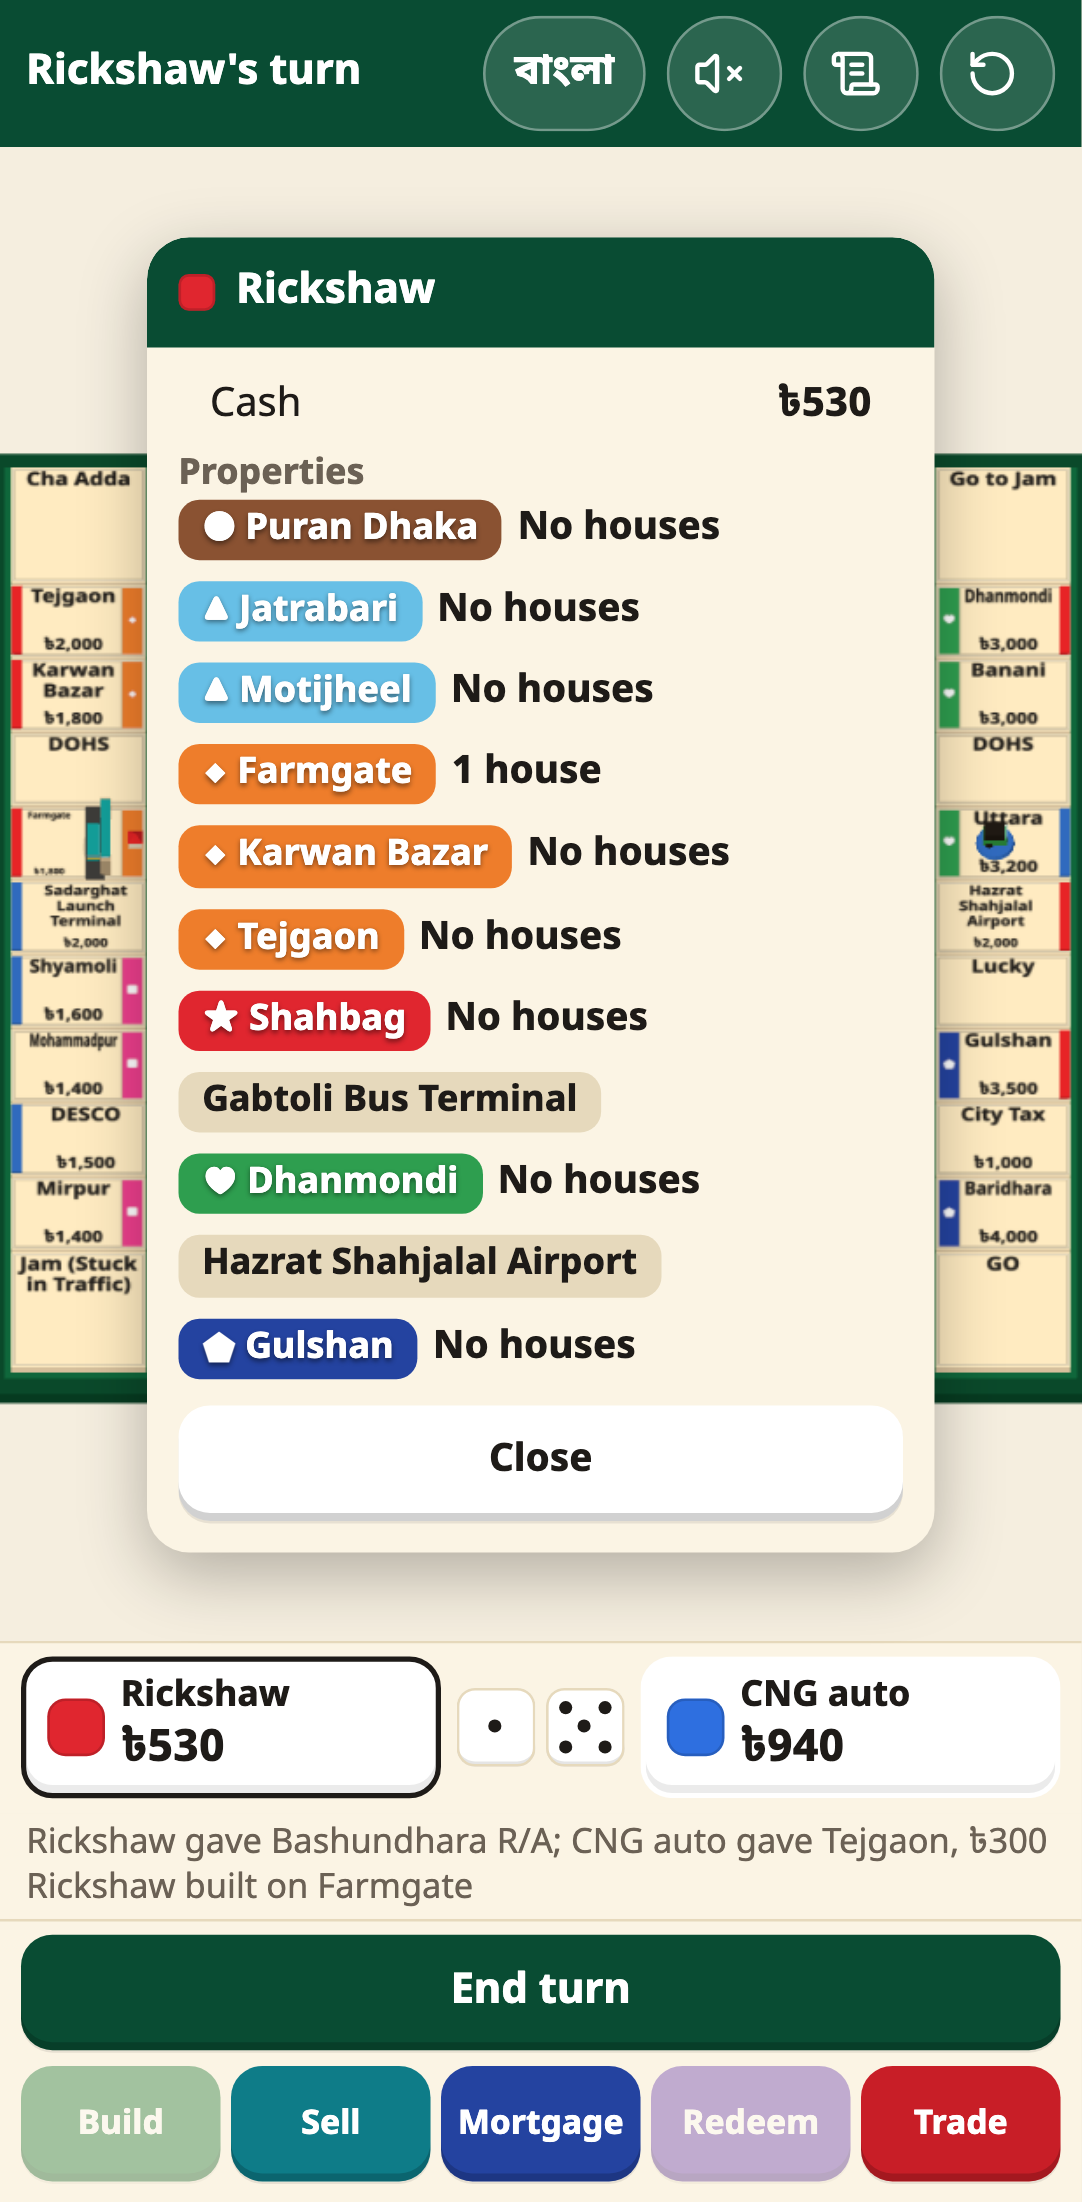
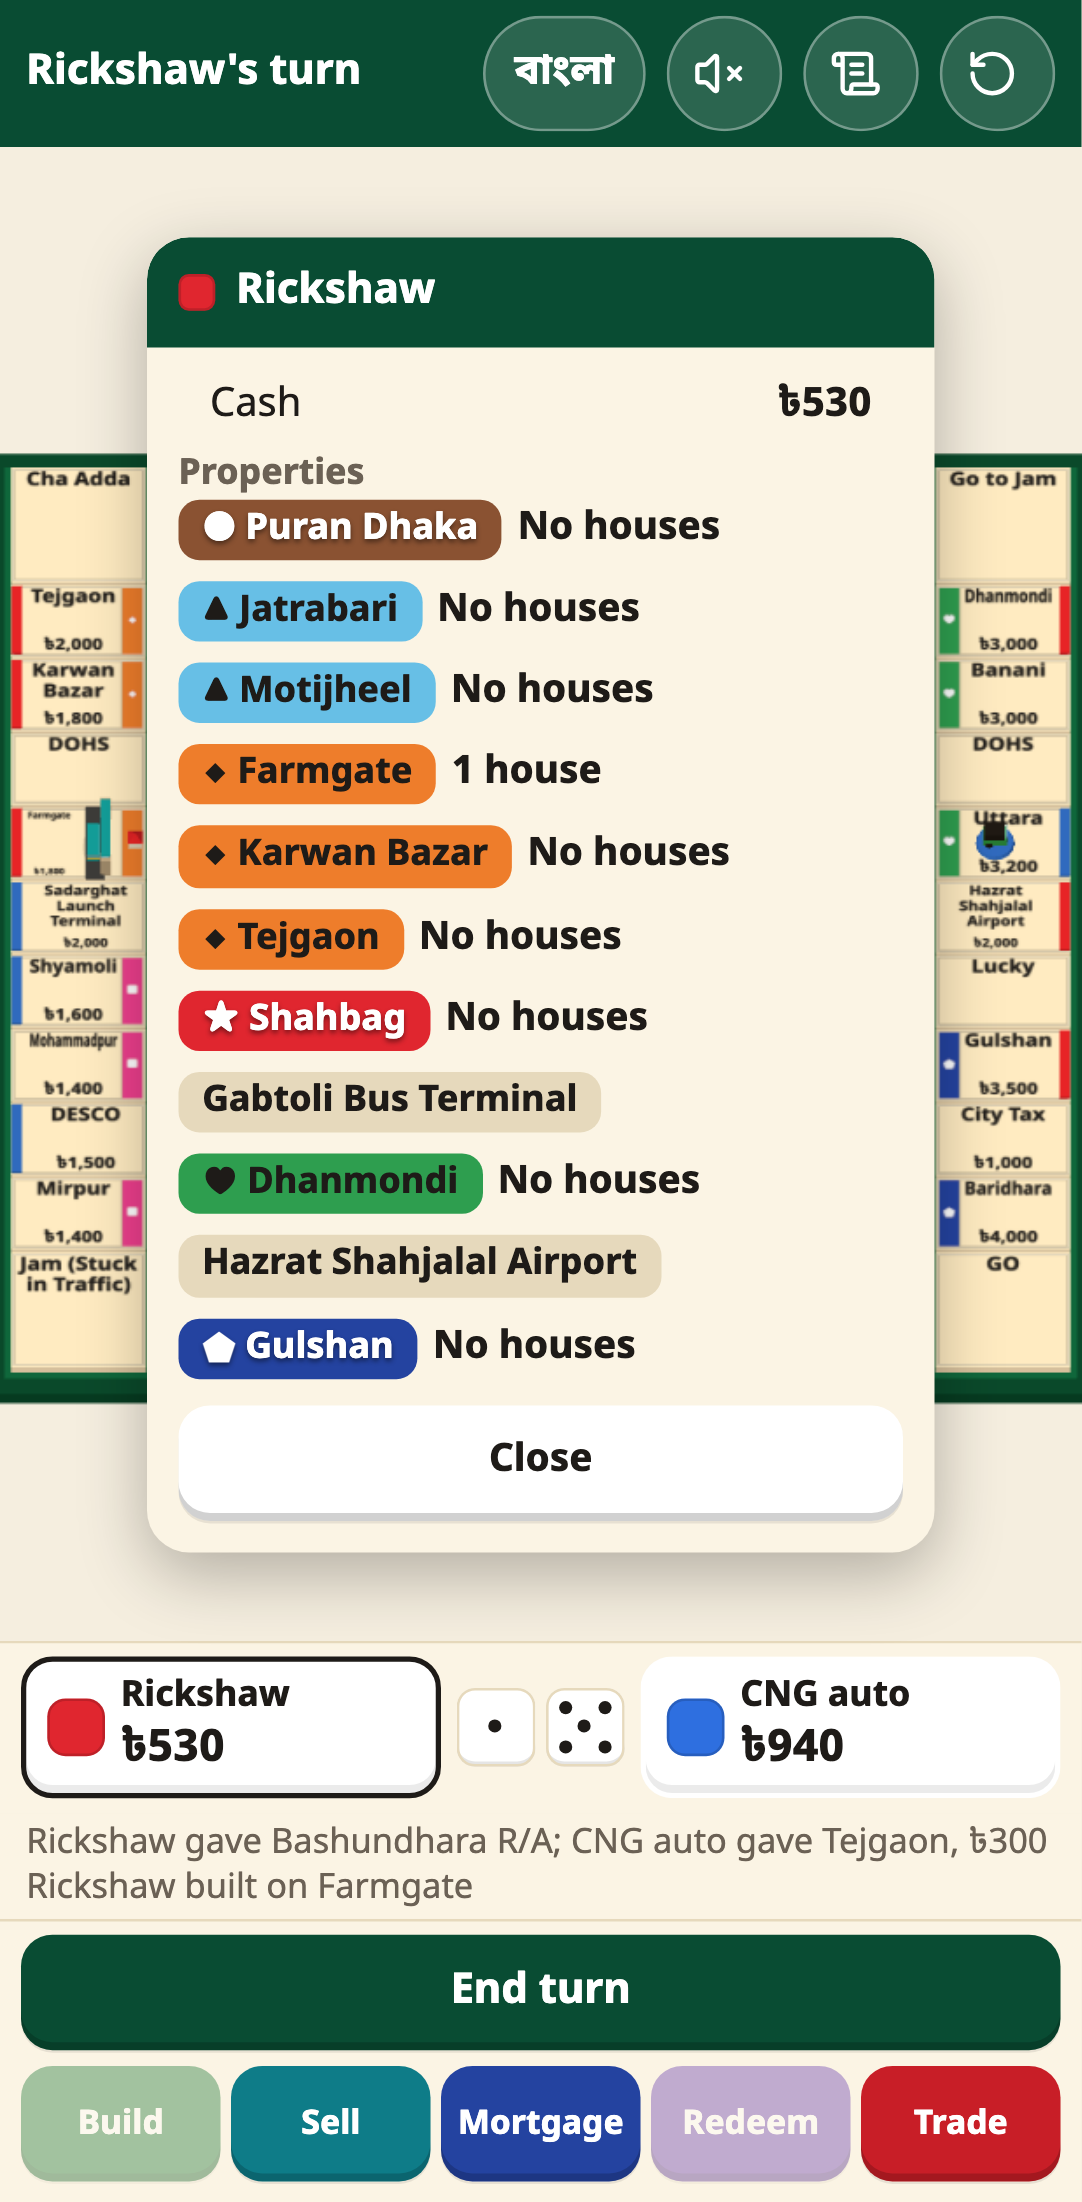
S7 accessibility: contrast and tap target audit on every screen in both languages, readable set-color text, bankrupt card and slider fixes (D-96)

Changed region(s): [[0.183, 0.247, 0.4575, 0.4323], [0.183, 0.525, 0.427, 0.5559]]

diff --git a/tests/e2e/a11y.spec.ts b/tests/e2e/a11y.spec.ts
@@ -1,0 +1,121 @@
+import { expect, test, type Page } from '@playwright/test';
+import { runSteps } from './helpers';
+
+// Plan 2.2 and phase 5 accessibility: contrast on every text and background pair, tap targets
+// of at least 44 by 44 points, on the narrowest phone in scope (375 points wide), both languages.
+test.use({ viewport: { width: 375, height: 812 }, deviceScaleFactor: 2, isMobile: true, hasTouch: true, actionTimeout: 10_000 });
+
+interface Problem { screen: string; kind: 'contrast' | 'tap'; text: string; detail: string }
+
+// Runs in the page: every visible text against the colors actually behind it, and every control's size.
+async function audit(page: Page, screen: string): Promise<Problem[]> {
+  return page.evaluate((screenName) => {
+    type C = { r: number; g: number; b: number; a: number };
+    const parse = (s: string): C => {
+      const m = /rgba?\(([^)]+)\)/.exec(s);
+      if (!m) return { r: 0, g: 0, b: 0, a: 0 };
+      const p = m[1]!.split(/[\s,/]+/).filter(Boolean).map(Number);
+      return { r: p[0]!, g: p[1]!, b: p[2]!, a: p[3] ?? 1 };
+    };
+    const over = (top: C, under: C): C => ({ r: top.r * top.a + under.r * (1 - top.a), g: top.g * top.a + under.g * (1 - top.a), b: top.b * top.a + under.b * (1 - top.a), a: 1 });
+    const lum = (c: C) => {
+      const f = (v: number) => { const x = v / 255; return x <= 0.03928 ? x / 12.92 : ((x + 0.055) / 1.055) ** 2.4; };
+      return 0.2126 * f(c.r) + 0.7152 * f(c.g) + 0.0722 * f(c.b);
+    };
+    const ratio = (a: C, b: C) => { const [x, y] = [lum(a), lum(b)].sort((p, q) => q - p); return (x! + 0.05) / (y! + 0.05); };
+    const hex = (c: C) => '#' + [c.r, c.g, c.b].map((v) => Math.round(v).toString(16).padStart(2, '0')).join('');
+    const shown = (el: Element) => { const r = el.getBoundingClientRect(); return r.width > 0 && r.height > 0 && !el.closest('[hidden]') && getComputedStyle(el).visibility !== 'hidden'; };
+    // Background layers from the element up to the first opaque one; gradients use their first color.
+    const background = (el: Element): C => {
+      const layers: C[] = [];
+      for (let e: Element | null = el; e; e = e.parentElement) {
+        const cs = getComputedStyle(e);
+        let c = parse(cs.backgroundColor);
+        if (c.a === 0 && cs.backgroundImage.includes('gradient')) c = parse(cs.backgroundImage);
+        if (c.a > 0) { layers.push(c); if (c.a >= 1) break; }
+      }
+      let base: C = { r: 255, g: 255, b: 255, a: 1 };
+      for (const l of layers.reverse()) base = over(l, base);
+      return base;
+    };
+    const opacity = (el: Element) => { let o = 1; for (let e: Element | null = el; e; e = e.parentElement) o *= Number(getComputedStyle(e).opacity); return o; };
+    const out: Array<{ screen: string; kind: 'contrast' | 'tap'; text: string; detail: string }> = [];
+    const walker = document.createTreeWalker(document.body, NodeFilter.SHOW_TEXT);
+    const seen = new Set<Element>();
+    for (let n = walker.nextNode(); n; n = walker.nextNode()) {
+      const el = n.parentElement;
+      const text = n.textContent?.trim();
+      if (!el || !text || seen.has(el) || !shown(el)) continue;
+      seen.add(el);
+      // WCAG 1.4.3 exempts inactive controls.
+      if (el.closest('button:disabled, [aria-disabled="true"], option')) continue;
+      const cs = getComputedStyle(el);
+      const bg = background(el);
+      const fgRaw = parse(cs.color);
+      const fg = over({ ...fgRaw, a: fgRaw.a * opacity(el) }, bg);
+      const size = parseFloat(cs.fontSize);
+      const large = size >= 24 || (size >= 18.66 && Number(cs.fontWeight) >= 700);
+      const need = large ? 3 : 4.5;
+      const got = ratio(fg, bg);
+      if (got < need) out.push({ screen: screenName, kind: 'contrast', text: text.slice(0, 40), detail: `${got.toFixed(2)} < ${need} (${hex(fg)} on ${hex(bg)}, ${size}px, .${el.className || el.tagName})` });
+    }
+    for (const el of Array.from(document.querySelectorAll('button, select, input, a[href], [role="button"]'))) {
+      if (!shown(el)) continue;
+      // A checkbox is tapped through its whole label row.
+      const target = el.matches('input[type="checkbox"], input[type="radio"]') ? el.closest('label') ?? el : el;
+      const r = target.getBoundingClientRect();
+      if (r.width < 43.5 || r.height < 43.5) out.push({ screen: screenName, kind: 'tap', text: (target.textContent ?? '').trim().slice(0, 40) || target.getAttribute('aria-label') || target.tagName, detail: `${r.width.toFixed(0)} by ${r.height.toFixed(0)} (.${(target as HTMLElement).className || target.tagName})` });
+    }
+    return out;
+  }, screen);
+}
+
+const shown = (page: Page, id: string) => page.getByTestId(id).isVisible().catch(() => false);
+
+async function stepUntil(page: Page, done: () => Promise<boolean>, max = 400): Promise<void> {
+  for (let i = 0; i < max && !(await done()); i++) await runSteps(page, 1);
+}
+
+for (const lang of ['en', 'bn'] as const) {
+  test(`plan 2.2 accessibility (${lang}): contrast and 44 point tap targets on every screen`, async ({ page }) => {
+    test.setTimeout(240_000);
+    const problems: Problem[] = [];
+    await page.goto(`/?test=1&lang=${lang}`);
+    problems.push(...await audit(page, 'setup'));
+    await page.getByTestId('timer-on').click();
+    await page.getByTestId('start').click();
+    problems.push(...await audit(page, 'handoff'));
+    await stepUntil(page, () => shown(page, 'deed'));
+    problems.push(...await audit(page, 'deed and timer'));
+    await page.locator('[data-testid="deed"] [data-action*="DECLINE"]').click();
+    await expect(page.getByTestId('auction')).toBeVisible();
+    problems.push(...await audit(page, 'auction'));
+    await stepUntil(page, () => shown(page, 'card'));
+    await expect(page.getByTestId('card')).toBeVisible();
+    problems.push(...await audit(page, 'card'));
+    await stepUntil(page, async () => (await page.locator('.main-row [data-action*="\\"ROLL\\""]').isVisible()) && (await page.getByTestId('act-trade').isEnabled()) && (await page.getByTestId('act-mortgage').isEnabled()), 3000);
+    await page.getByTestId('act-trade').click();
+    await page.locator('[data-testid^="trade-to-"]').first().click();
+    problems.push(...await audit(page, 'trade'));
+    await page.getByTestId('trade-cancel').click();
+    await page.getByTestId('act-mortgage').click();
+    problems.push(...await audit(page, 'manage'));
+    await page.getByTestId('manage-close').click();
+    await page.locator('.player').first().click();
+    problems.push(...await audit(page, 'player details'));
+    await page.getByTestId('info-close').click();
+    await page.getByTestId('open-log').click();
+    problems.push(...await audit(page, 'log'));
+    await page.getByTestId('info-close').click();
+    await page.reload();
+    problems.push(...await audit(page, 'setup with saved game'));
+    await page.getByTestId('continue').click();
+    problems.push(...await audit(page, 'resume'));
+    let r = await runSteps(page, 500);
+    for (let i = 0; i < 60 && r.status === 'more'; i++) r = await runSteps(page, 500);
+    expect(r.status).toBe('over');
+    problems.push(...await audit(page, 'game over'));
+    const lines = problems.map((p) => `${p.screen} | ${p.kind} | ${p.text} | ${p.detail}`);
+    expect([...new Set(lines)]).toEqual([]);
+  });
+}

diff --git a/src/ui/app.ts b/src/ui/app.ts
@@ -13,6 +13,7 @@ import { Sfx } from '../audio/sfx';
 import { cardArt } from './cardArt';
 import { icon } from './icons';
 import { h } from './dom';
+import { textOn } from './contrast';
 import { Session, type SeatKind } from './session';
 import { clearSave, deviceStorage, loadSave, writeSave, type GameSettings, type SaveGame } from './save';
 
@@ -540,7 +541,7 @@ export class App {
       rules.config.utility.diceMultiplierByUtilitiesOwned.forEach((m, i) => rows.push([t('deed.owning', { n: num(i + 1) }), t('deed.diceTimes', { n: num(m) })]));
     }
     return h('div', { class: 'deed' },
-      h('div', { class: 'deed-head', style: tile.group ? `background:${this.o.sceneConfig.colors.groups[tile.group]}` : '' },
+      h('div', { class: 'deed-head', style: tile.group ? this.groupStyle(tile.group) : '' },
         tile.group ? `${this.o.sceneConfig.groupSymbols[tile.group]} ` : '', t(tile.nameKey)),
       h('div', { class: 'kv' }, h('span', {}, t('deed.price')), h('span', {}, money(q.price))),
       h('div', { class: 'kv' }, h('span', {}, t('deed.mortgage')), h('span', {}, money(q.mortgageValue))),
@@ -593,7 +594,7 @@ export class App {
       closable ? h('div', { class: 'band manage' }, t('manage.title', { name: playerName(who) })) : h('h3', {}, t('manage.title', { name: playerName(who) })),
       closable && this.mode ? h('div', { class: 'note' }, t('manage.tapHint')) : null,
       rows.length ? h('div', { class: 'props' }, ...rows) : h('div', { class: 'note' }, t('manage.none')),
-      closable ? h('div', { class: 'row' }, h('button', { onclick: () => { this.panel = null; this.mode = null; this.render(); } }, t('action.close'))) : null,
+      closable ? h('div', { class: 'row' }, h('button', { 'data-testid': 'manage-close', onclick: () => { this.panel = null; this.mode = null; this.render(); } }, t('action.close'))) : null,
     );
   }
 
@@ -627,7 +628,7 @@ export class App {
         h('div', { class: 'row' }, h('button', { class: 'primary', 'data-testid': 'trade-propose', onclick: () => this.propose(who) }, t('trade.propose'))),
       );
     }
-    body.append(h('div', { class: 'row' }, h('button', { onclick: () => { this.panel = null; this.render(); } }, t('action.cancel'))));
+    body.append(h('div', { class: 'row' }, h('button', { 'data-testid': 'trade-cancel', onclick: () => { this.panel = null; this.render(); } }, t('action.cancel'))));
     return body;
   }
 
@@ -761,7 +762,14 @@ export class App {
   // Hubs and utilities have no set, so their tag is plain.
   private tileTag(tile: Tile): HTMLElement {
     if (!tile.group) return h('span', { class: 'tag plain' }, t(tile.nameKey));
-    return h('span', { class: 'tag', style: `background:${this.o.sceneConfig.colors.groups[tile.group]}` }, `${this.o.sceneConfig.groupSymbols[tile.group] ?? ''} ${t(tile.nameKey)}`);
+    return h('span', { class: 'tag', style: this.groupStyle(tile.group) }, `${this.o.sceneConfig.groupSymbols[tile.group] ?? ''} ${t(tile.nameKey)}`);
+  }
+
+  // Set color background with white or ink text, whichever has the contrast (D-96).
+  private groupStyle(group: string): string {
+    const bg = this.o.sceneConfig.colors.groups[group] ?? '#555555';
+    const ink = textOn(bg) !== '#FFFFFF';
+    return `background:${bg};color:${textOn(bg)}${ink ? ';text-shadow:none' : ''}`;
   }
 
   private infoSheet(s: GameState, info: NonNullable<App['info']>): HTMLElement {

diff --git a/src/ui/styles.css b/src/ui/styles.css
@@ -101,7 +101,10 @@ canvas.board { position: absolute; inset: 0; width: 100%; height: 100%; display:
 .player.left { grid-column: 1; }
 .player.right { grid-column: 3; }
 .player.active { border-color: var(--ink); }
-.player.out { opacity: 0.45; text-decoration: line-through; }
+/* A bankrupt player is greyed with muted text and a struck name, not faded, so it stays readable (plan 2.2 contrast). */
+.player.out { color: var(--muted); box-shadow: inset 0 0 0 1px var(--paperEdge); background: var(--paper); }
+.player.out .pname, .player.out .cash { text-decoration: line-through; }
+.player.out .swatch { opacity: 0.45; }
 .player .swatch { grid-row: 1 / 3; width: 22px; height: 22px; border-radius: 7px; }
 .player .pname { font-size: 0.85rem; font-weight: 700; overflow: hidden; text-overflow: ellipsis; white-space: nowrap; }
 .player .cash { font-weight: 800; font-size: 1.05rem; }
@@ -154,7 +157,7 @@ canvas.board { position: absolute; inset: 0; width: 100%; height: 100%; display:
 .row { display: flex; gap: 8px; margin-top: 10px; align-items: center; }
 .row > button { flex: 1; }
 .row.wrap { flex-wrap: wrap; }
-.row input[type=range] { flex: 2; accent-color: var(--boardGreenDark); }
+.row input[type=range] { flex: 2; min-height: var(--tap); accent-color: var(--boardGreenDark); }
 .status, .who { margin: 4px 0; }
 .who { font-weight: 800; }
 .note { font-size: 0.85rem; color: var(--muted); margin-top: 6px; }

diff --git a/src/ui/contrast.ts b/src/ui/contrast.ts
@@ -1,0 +1,23 @@
+// Text color for a colored background (plan 2.2: contrast checked on every text and background
+// pair, D-96). Uses the WCAG 2 relative luminance and contrast ratio formulas.
+
+export const INK = '#1E1B18'; // --ink in styles.css
+
+function luminance(hex: string): number {
+  const v = hex.replace('#', '');
+  const [r, g, b] = [0, 2, 4].map((i) => {
+    const c = parseInt(v.slice(i, i + 2), 16) / 255;
+    return c <= 0.03928 ? c / 12.92 : ((c + 0.055) / 1.055) ** 2.4;
+  }) as [number, number, number];
+  return 0.2126 * r + 0.7152 * g + 0.0722 * b;
+}
+
+export function contrastRatio(a: string, b: string): number {
+  const [hi, lo] = [luminance(a), luminance(b)].sort((x, y) => y - x) as [number, number];
+  return (hi + 0.05) / (lo + 0.05);
+}
+
+// White or ink, whichever reads better on the background.
+export function textOn(background: string): string {
+  return contrastRatio('#FFFFFF', background) >= contrastRatio(INK, background) ? '#FFFFFF' : INK;
+}

diff --git a/tests/unit/ui/contrast.test.ts b/tests/unit/ui/contrast.test.ts
@@ -1,0 +1,18 @@
+import { describe, expect, it } from 'vitest';
+import scene from '../../../data/scene.json';
+import { contrastRatio, INK, textOn } from '../../../src/ui/contrast';
+
+describe('text on set colors (plan 2.2 contrast, D-96)', () => {
+  it('plan 2.2: the contrast ratio matches the WCAG formula at the extremes', () => {
+    expect(contrastRatio('#000000', '#FFFFFF')).toBeCloseTo(21, 1);
+    expect(contrastRatio('#777777', '#777777')).toBeCloseTo(1, 5);
+  });
+
+  it('plan 2.2: tag and deed header text on every set color reaches 4.5 to 1', () => {
+    for (const [group, color] of Object.entries(scene.colors.groups)) {
+      const text = textOn(color);
+      expect([INK, '#FFFFFF']).toContain(text);
+      expect(contrastRatio(text, color), group).toBeGreaterThanOrEqual(4.5);
+    }
+  });
+});

diff --git a/tests/unit/build/sw.test.ts b/tests/unit/build/sw.test.ts
@@ -24,6 +24,6 @@ describe('offline service worker (plan 2.2 offline, D-94)', () => {
     expect(src).toContain("request.method !== 'GET'");
     expect(src).toContain('url.origin !== self.location.origin');
     expect(src).not.toMatch(/https?:\/\//);
-    expect(src).not.toContain('—');
+    expect(src).not.toContain(String.fromCharCode(0x2014));
   });
 });

diff --git a/docs/DECISIONS.md b/docs/DECISIONS.md
@@ -101,6 +101,7 @@ Two lists: decisions taken (with who decided and why), and open questions waitin
 | D-93 | 2026-11-09 | Game settings on the new-game screen (FR-14, D-63): start cash from five choices, ৳5,000, ৳7,500, ৳10,000 (default), ৳15,000 and ৳20,000, and the turn timer Off (default) or 30 seconds. The choices live in data/config.json under settings. When on, a countdown shows in the top strip while a human has a decision with a passive choice, restarts with every new decision, turns red for the last 5 seconds, and takes the passive choice at zero (D-34, D-52). It waits behind the hand-off. To make room, New game in the top strip is now an icon button with its name as the label. | Builder | The plan names start cash as a setting but not its range; the choices run from half to double the default. Only ৳10,000 was balance-tested in S3. Owner may change them in config.json. |
 | D-94 | 2026-11-09 | Offline play (plan 2.2): the build writes sw.js, a hand-written service worker that precaches the page and every built file (code, styles, the bundled Bangla font). Pages load network first, so a new release appears when online, and fall back to the cached page offline; built files load from the cache. Only same-origin GET requests are handled. Cache lookups ignore Vary because file names carry content hashes. Registered only in the production build. Browsers allow service workers only over HTTPS or on localhost, so offline works on the real host (S8), not over the phone server's local network address. The web app manifest for installing to the home screen waits for S8 (plan phase 6). | Builder | No new dependency (no PWA plugin): the worker is 40 lines, generated by a small Vite build hook (rolldown generateBundle and emitFile, checked in node_modules/rolldown). |
 | D-95 | 2026-11-09 | Bangla review (plan 5): `npm run review:export` writes docs/bangla-review.csv, every string still in data/bn-review.json with its English and current Bangla, plus ok, correction and note columns. The reviewer follows docs/bangla-review.md. `npm run review:import -- <file>` applies the filled-in sheet: approved rows leave the review list, corrections replace the Bangla. All or nothing: a correction that drops a placeholder, adds an em dash or names an unknown key stops the import with the row named. Q-30 is asked in the same document. | Builder | A spreadsheet suits a reviewer who is not a developer; the import keeps the game safe from typing slips. |
+| D-96 | 2026-11-09 | Accessibility pass (plan 2.2, phase 5): an end-to-end audit checks every visible text against the colors actually behind it (4.5 to 1, or 3 to 1 for large text; disabled controls exempt as in WCAG 1.4.3) and every control for 44 by 44 points, on a 375 point wide phone in both languages, across setup, saved game, hand-off, deed with timer, auction, card, trade, manage, player details, log, resume and game over. Fixes: set-color tags and deed headers now use white or dark ink text, whichever passes (light blue, pink, orange, yellow and green had white text below 4.5 to 1); a bankrupt player card is greyed and struck through instead of faded to 45 percent; the auction slider is 44 points tall. Color sets were already marked by symbol as well as color (style guide). | Builder | Plan 2.2: contrast checked on every text and background pair, tap targets at least 44 by 44. |
 
 ## Open questions
 
